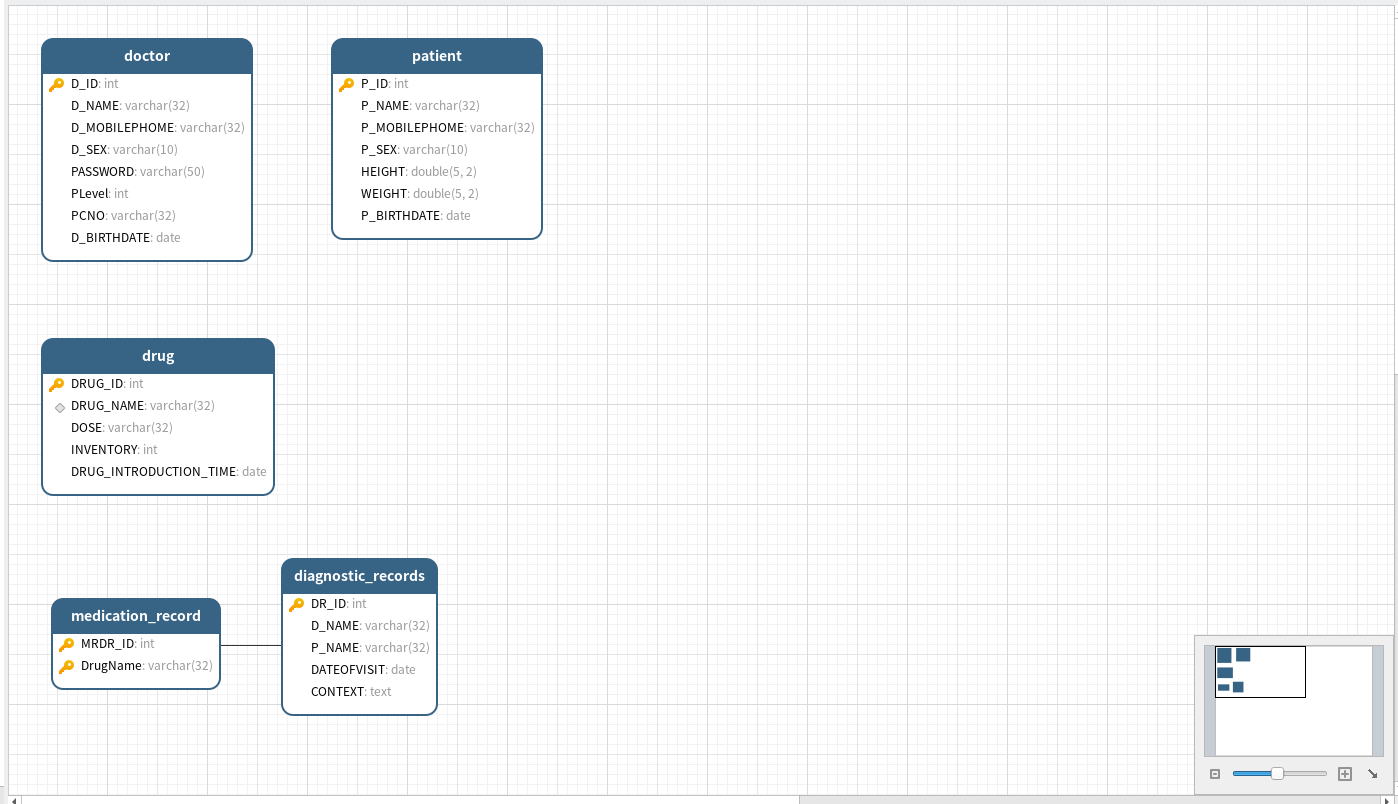
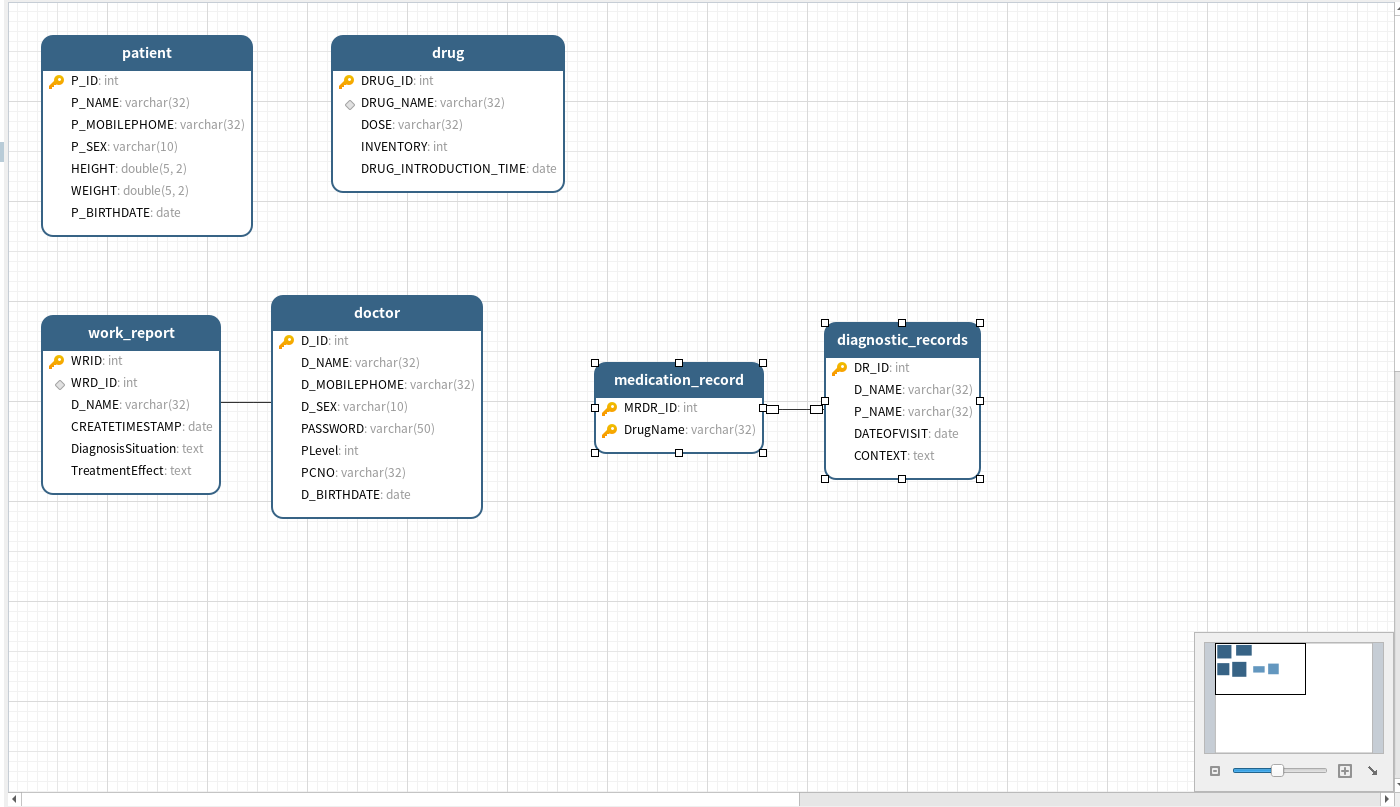
给工作报告表添加了自增主键，医生工作报告功能完成

diff --git a/HDATS/workreportmanagement.cpp b/HDATS/workreportmanagement.cpp
@@ -19,12 +19,42 @@ WorkReportManagement::~WorkReportManagement()
 
 void WorkReportManagement::refresh()
 {
-
+    do_btnFind();
 }
 
 void WorkReportManagement::init()
 {
+    IDatabase& instance = IDatabase::GetInstance();
 
+    queryModel = instance.getWorkReportQueryModel(this);
+    filterModel = new QSortFilterProxyModel(this);
+
+    filterModel->setSourceModel(queryModel);
+    selModel = new QItemSelectionModel(filterModel, this);
+
+    ui->tableView->setModel(filterModel);
+    ui->tableView->setSelectionModel(selModel);
+
+    ui->tableView->verticalHeader()->hide();
+    ui->tableView->setSelectionBehavior(QAbstractItemView::SelectRows);
+    ui->tableView->setEditTriggers(QAbstractItemView::NoEditTriggers);
+    ui->tableView->setSelectionMode(QAbstractItemView::SingleSelection);
+    ui->tableView->horizontalHeader()->setSectionResizeMode(QHeaderView::Stretch);
+
+    ui->tableView->setSortingEnabled(true);
+
+    ui->tableView->setColumnHidden(0, true); // 隐藏编号
+    ui->tableView->setColumnHidden(1, true);
+    ui->tableView->setColumnHidden(4, true);
+    ui->tableView->setColumnHidden(5, true);
+
+    ui->btnDelete->setEnabled(false);
+    ui->btnModify->setEnabled(false);
+
+    ui->diagnosisSituation->setReadOnly(true);
+    ui->treatmentEffect->setReadOnly(true);
+
+    flag.resize(8, true);
 }
 
 void WorkReportManagement::iniSignalSlots()
@@ -39,12 +69,24 @@ void WorkReportManagement::iniSignalSlots()
 
 void WorkReportManagement::do_currentRowChanged(const QModelIndex &current, const QModelIndex &previous)
 {
+    ui->btnDelete->setEnabled(true);
+    ui->btnModify->setEnabled(true);
 
+    ui->diagnosisSituation->setPlainText(filterModel->data(current.siblingAtColumn(4)).toString());
+    ui->treatmentEffect->setPlainText(filterModel->data(current.siblingAtColumn(5)).toString());
 }
 
 void WorkReportManagement::do_btnFind()
 {
+    QString str = ui->lineEdit->text();
 
+    IDatabase::GetInstance().filterForWorkReports(queryModel, str, this);
+
+    ui->diagnosisSituation->setPlainText("");
+    ui->treatmentEffect->setPlainText("");
+
+    ui->btnDelete->setEnabled(false);
+    ui->btnModify->setEnabled(false);
 }
 
 void WorkReportManagement::do_btnAdd()
@@ -54,15 +96,19 @@ void WorkReportManagement::do_btnAdd()
 
 void WorkReportManagement::do_btnDelete()
 {
+    QString id = filterModel->data(selModel->currentIndex().siblingAtColumn(0)).toString();
+    IDatabase::GetInstance().deleteWorkReport(id, this);
 
+    refresh();
 }
 
 void WorkReportManagement::do_btnModify()
 {
-
+    emit modify(info, filterModel, selModel->currentIndex());
 }
 
 void WorkReportManagement::do_tableView_sort(int column)
 {
-
+    flag[column] = !flag[column];
+    ui->tableView->sortByColumn(column, flag[column] ? Qt::AscendingOrder : Qt::DescendingOrder);
 }

diff --git a/HDATS/idatabase.cpp b/HDATS/idatabase.cpp
@@ -412,3 +412,72 @@ void IDatabase::addMedicationRecords(QVector<QString> nameList, QWidget *parent,
         QMessageBox::critical(parent, "添加多条开药错误", query.lastError().text());
 }
 
+QSqlQueryModel *IDatabase::getWorkReportQueryModel(QWidget *parent)
+{
+    QSqlQueryModel *queryModel = new QSqlQueryModel(this);
+    queryModel->setQuery("SELECT WRID, WRD_ID, D_NAME 所属人, CREATETIMESTAMP 创建时间, "
+                         "DiagnosisSituation 诊疗情况, TreatmentEffect 治疗效果评估 FROM work_report;");
+
+    if (queryModel->lastError().isValid())
+    {
+        QMessageBox::critical(parent, "获取所有工作报告错误", queryModel->lastError().text());
+        return NULL;
+    }
+
+    return queryModel;
+}
+
+void IDatabase::filterForWorkReports(QSqlQueryModel *queryModel, QString filter, QWidget *parent)
+{
+    QString sql = "SELECT WRID, WRD_ID, D_NAME 所属人, CREATETIMESTAMP 创建时间, "
+                  "DiagnosisSituation 诊疗情况, TreatmentEffect 治疗效果评估 FROM work_report "
+                  "WHERE D_NAME LIKE '%" + filter + "%';";
+
+    queryModel->setQuery(sql);
+
+    if (queryModel->lastError().isValid())
+        QMessageBox::critical(parent, "筛选工作报告错误", queryModel->lastError().text());
+}
+
+void IDatabase::addWorkReport(QVector<QVariant> params, QWidget *parent)
+{
+    QString sql = "INSERT INTO work_report (WRD_ID, D_NAME, CREATETIMESTAMP, DiagnosisSituation, TreatmentEffect) VALUES (?, ?, ?, ?, ?)";
+
+    QSqlQuery query;
+    query.prepare(sql);
+
+    query.bindValue(0, params[0].toInt());
+    query.bindValue(1, params[1].toString());
+    query.bindValue(2, params[2].toDate());
+    query.bindValue(3, params[3].toString());
+    query.bindValue(4, params[4].toString());
+
+    if (!query.exec())
+        QMessageBox::critical(parent, "添加工作报告错误", query.lastError().text());
+}
+
+void IDatabase::deleteWorkReport(QString wrid, QWidget *parent)
+{
+    QSqlQuery query;
+    query.exec("DELETE FROM work_report WHERE WRID = " + wrid);
+
+    if (query.lastError().isValid())
+        QMessageBox::critical(parent, "删除工作报告错误", query.lastError().text());
+}
+
+void IDatabase::modifyWorkReport(QVector<QVariant> params, QWidget *parent)
+{
+    QString sql = "UPDATE work_report SET CREATETIMESTAMP = ?, DiagnosisSituation = ?, TreatmentEffect = ? WHERE WRID = ?";
+
+    QSqlQuery query;
+    query.prepare(sql);
+
+    query.bindValue(0, params[0].toDate());
+    query.bindValue(1, params[1].toString());
+    query.bindValue(2, params[2].toString());
+    query.bindValue(3, params[3].toInt());
+
+    if (!query.exec())
+        QMessageBox::critical(parent, "修改工作报告错误", query.lastError().text());
+}
+

diff --git a/HDATS/workreportedit.cpp b/HDATS/workreportedit.cpp
@@ -1,22 +1,30 @@
 #include "workreportedit.h"
 #include "ui_workreportedit.h"
 
-WorkReportEdit::WorkReportEdit(CurrLoginUserInfo *info, QWidget *parent) :
+WorkReportEdit::WorkReportEdit(CurrLoginUserInfo *info, QString op, QWidget *parent) :
     QWidget(parent),
     info(info),
+    operation(op),
     ui(new Ui::WorkReportEdit)
 {
     ui->setupUi(this);
+
+    init();
+    iniSignalSlots();
 }
 
-WorkReportEdit::WorkReportEdit(CurrLoginUserInfo *info, QSortFilterProxyModel *sfpm, QModelIndex index, QWidget *parent) :
+WorkReportEdit::WorkReportEdit(CurrLoginUserInfo *info, QSortFilterProxyModel *sfpm, QModelIndex index, QString op, QWidget *parent) :
     QWidget(parent),
     info(info),
     sfpm(sfpm),
     index(index),
+    operation(op),
     ui(new Ui::WorkReportEdit)
 {
     ui->setupUi(this);
+
+    init();
+    iniSignalSlots();
 }
 
 WorkReportEdit::~WorkReportEdit()
@@ -26,7 +34,14 @@ WorkReportEdit::~WorkReportEdit()
 
 void WorkReportEdit::init()
 {
-
+    if (operation == "添加")
+        ui->dateEdit->setDate(QDate::currentDate());
+    else
+    {
+        ui->dateEdit->setDate(sfpm->data(index.siblingAtColumn(3)).toDate());
+        ui->diagnosisSituation->setPlainText(sfpm->data(index.siblingAtColumn(4)).toString());
+        ui->treatmentEffect->setPlainText(sfpm->data(index.siblingAtColumn(5)).toString());
+    }
 }
 
 void WorkReportEdit::iniSignalSlots()
@@ -35,9 +50,35 @@ void WorkReportEdit::iniSignalSlots()
     connect(ui->btnCancel, SIGNAL(clicked()), this, SLOT(do_btnCancel()));
 }
 
+// INSERT INTO work_report (WRD_ID, D_NAME, CREATETIMESTAMP, DiagnosisSituation, TreatmentEffect) VALUES (?, ?, ?, ?, ?)
+// UPDATE work_report SET CREATETIMESTAMP = ?, DiagnosisSituation = ?, TreatmentEffect = ? WHERE WRID = ?
 void WorkReportEdit::do_btnSave()
 {
+    QDate inputDate = ui->dateEdit->date();
+    QString dia = ui->diagnosisSituation->toPlainText();
+    QString tre = ui->treatmentEffect->toPlainText();
 
+    QVector<QVariant> params;
+
+    if (operation == "添加")
+    {
+        params.push_back(info->getUserID());
+        params.push_back(info->getUserName());
+    }
+
+    params.push_back(inputDate);
+    params.push_back(dia);
+    params.push_back(tre);
+
+    if (operation == "修改")
+    {
+        params.push_back(sfpm->data(index.siblingAtColumn(0)).toInt());
+        IDatabase::GetInstance().modifyWorkReport(params, this);
+    }
+    else
+        IDatabase::GetInstance().addWorkReport(params, this);
+
+    emit clickBtnSave();
 }
 
 void WorkReportEdit::do_btnCancel()

diff --git a/HDATS/workreportedit.h b/HDATS/workreportedit.h
@@ -2,12 +2,16 @@
 #define WORKREPORTEDIT_H
 
 #include "currloginuserinfo.h"
+#include "idatabase.h"
 
 #include <QWidget>
 #include <QSortFilterProxyModel>
 #include <QModelIndex>
 #include <QDebug>
 #include <QString>
+#include <QDate>
+#include <QVector>
+#include <QVariant>
 
 namespace Ui {
 class WorkReportEdit;
@@ -18,8 +22,8 @@ class WorkReportEdit : public QWidget
     Q_OBJECT
 
 public:
-    explicit WorkReportEdit(CurrLoginUserInfo *info, QWidget *parent = nullptr);
-    explicit WorkReportEdit(CurrLoginUserInfo *info, QSortFilterProxyModel *sfpm, QModelIndex index, QWidget *parent = nullptr);
+    explicit WorkReportEdit(CurrLoginUserInfo *info, QString op, QWidget *parent = nullptr);
+    explicit WorkReportEdit(CurrLoginUserInfo *info, QSortFilterProxyModel *sfpm, QModelIndex index, QString op, QWidget *parent = nullptr);
     ~WorkReportEdit();
 
 private:
@@ -29,6 +33,8 @@ private:
 
     QSortFilterProxyModel *sfpm;
     QModelIndex index;
+
+    QString operation;
 
     void init();
     void iniSignalSlots();

diff --git a/HDATS/masterview.cpp b/HDATS/masterview.cpp
@@ -217,7 +217,7 @@ void MasterView::goToWorkReportMView(CurrLoginUserInfo *info)
 
 void MasterView::goToWorkReportEditViewForAdd(CurrLoginUserInfo *info)
 {
-    workReportEdit = new WorkReportEdit(info);
+    workReportEdit = new WorkReportEdit(info, "添加");
     workReportEdit->setWindowTitle("添加工作报告");
     pushToStack(workReportEdit);
 
@@ -227,7 +227,7 @@ void MasterView::goToWorkReportEditViewForAdd(CurrLoginUserInfo *info)
 
 void MasterView::goToWorkReportEditViewForModify(CurrLoginUserInfo *info, QSortFilterProxyModel *sfpm, QModelIndex index)
 {
-    workReportEdit = new WorkReportEdit(info, sfpm, index);
+    workReportEdit = new WorkReportEdit(info, sfpm, index, "修改");
     pushToStack(workReportEdit);
 
     connect(workReportEdit, &WorkReportEdit::clickBtnSave, this, &MasterView::back);

diff --git a/HDATS/idatabase.h b/HDATS/idatabase.h
@@ -60,6 +60,13 @@ public:
     void deleteMedicationRecords(QString mrdr_id, QWidget *parent);
     void addMedicationRecords(QVector<QString> nameList, QWidget *parent, QString mrdr_id);
 
+    // 工作报告
+    QSqlQueryModel* getWorkReportQueryModel(QWidget *parent);
+    void filterForWorkReports(QSqlQueryModel *queryModel, QString filter, QWidget *parent);
+    void addWorkReport(QVector<QVariant> params, QWidget *parent);
+    void deleteWorkReport(QString wrd_id, QWidget *parent);
+    void modifyWorkReport(QVector<QVariant> params, QWidget *parent);
+
 private:
     // 禁止外部构造
     IDatabase();

diff --git a/HDATS/workreportmanagement.h b/HDATS/workreportmanagement.h
@@ -2,6 +2,7 @@
 #define WORKREPORTMANAGEMENT_H
 
 #include "currloginuserinfo.h"
+#include "idatabase.h"
 
 #include <QWidget>
 #include <QVector>
